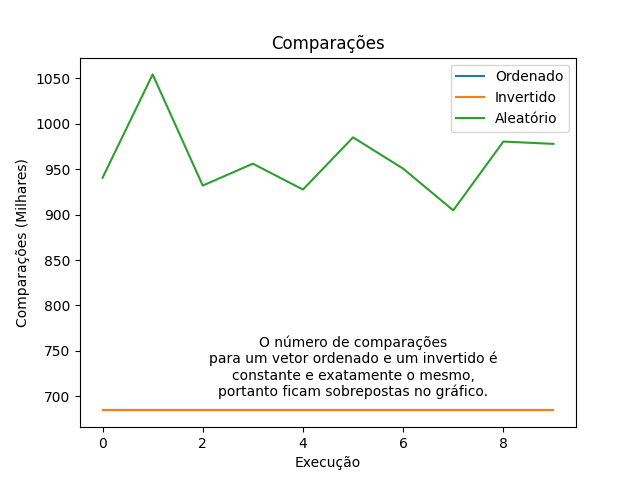
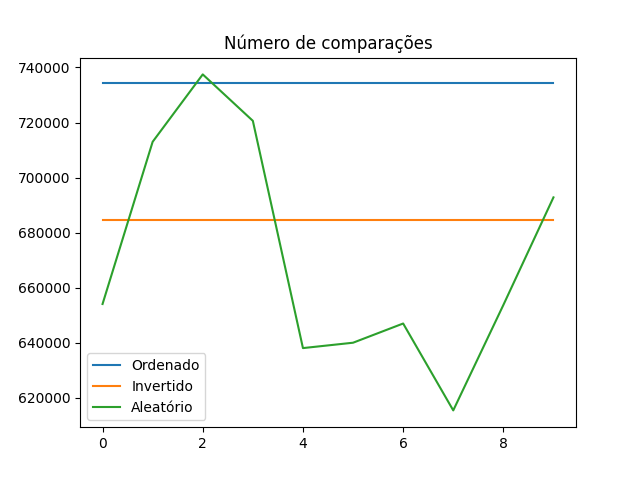
finalizado

diff --git a/quicksort.cpp b/quicksort.cpp
@@ -72,14 +72,13 @@ int quantTrocas = 0;
 // Função que ordena um vetor com o algoritmo quick sort
 // Recebe como parâmetro o vetor que será ordenado
 // o índice do início e do fim da parte do vetor que será ordenada
-void quickSort(int vet[], int ini, int fim){
+int partition(int vet[], int ini, int fim){
 
     // Escolha de um pivô para fazer as comparações
     // A escolha do pivô como o elemento do meio é vantajosa
     // porque tende a evitar que o pivô seja o maior ou menor número do vetor
-    // int pivo = vet[ini + (fim-ini) / 2];
-    // int pivo = median3(vet, ini, fim);
-    int pivo =  ini + (fim - ini) / 2;
+    // minimizando a chance de cair no caso O(n²)
+    int pivo =  vet[ini + (fim - ini) / 2];
 
     // Variáveis i e j para percorrer o vetor
     // i começa no primeiro elemento da parte do vetor a ser ordenada
@@ -94,50 +93,40 @@ void quickSort(int vet[], int ini, int fim){
     while (true){
 
         // Loop para encontrar um elemento que seja
-        // maior do que o pivô e que esteja antes do pivô
+        // maior do que o pivô
         // i percorre o vetor do início em direção ao fim
-        // i não pode ultrapassar o índice do fim
         while (vet[i] < pivo){
             quantComparacoes++;  // Adiciona mais uma comparação à contagem
             i++;  // Avança para o próximo número à direita
         }
 
-        if (i >= fim){
-            break;
-        }
-
         // Loop para encontrar um elemento que seja
-        // menor do que o pivô e que esteja depois do pivô
+        // menor do que o pivô
         // j percorre o vetor do fim em direção ao início
-        // j não pode ser menor do que o índice do início
         while (vet[j] > pivo){
             quantComparacoes++;  // Adiciona mais uma comparação à contagem
             j--;  // Avança para o próximo número à esquerda
-        }
-
-        if (j <= ini){
-            break;
         }
 
         // Neste ponto, vet[i] é um número maior do que o pivô
         // e vet[j] um número menor do que o pivô
         // O loop deve ser interrompido caso i seja maior ou igual a j
 
-
         // Caso i seja maior ou igual a j, então todo o vetor já foi percorrido
         if (i >= j){
-            break;
-        }
+			break;
+		}
 
         // Se o código chegou aqui, então i e j ainda não se cruzaram
         // vet[i] é um número maior do que o pivô e que está à esquerda dele
-        // vet[ij] é um número menor do que o pivô e que está à direita dele
+        // vet[j] é um número menor do que o pivô e que está à direita dele
         // Os valores de vet[i] e vet[j] devem ser trocados
-        quantTrocas++;  // Adiciona mais uma troca à contagem
         int aux = vet[i];  // Uso de uma variável auxiliar para fazer a troca
         vet[i] = vet[j];
         vet[j] = aux;
-
+        quantTrocas++;  // Adiciona mais uma troca à contagem
+        i++;
+        j--;
     }
 
     // Neste ponto, todos os números menores do que o pivô estão à sua esquerda
@@ -145,22 +134,30 @@ void quickSort(int vet[], int ini, int fim){
 
     // O algoritmo então é chamado recursivamente para ordenar a parte à direita e à esquerda da partição
     // A partição pode ser tanto i quanto j, pois tem o mesmo valor
-    // A parte à esquerda é do início até i (incluindo i)
-    // A parte à direita é de i+1 até o fim
+    // A parte à esquerda é do início até a partição (inclusa)
+    // A parte à direita é de partição+1 até o fim
 
-    // Ordena a parte à esquerda da partição se i não for o início
-    // Se i for o início, então o número já está no seu devido lugar
-    // e não é necessário chamar a função novamente
-    if (i > ini){
-    quickSort(vet, ini, i);
+    // Retornar a partição
+    return i;
+}
+
+
+void quickSort(int vet[], int ini, int fim){
+
+    // Condição de para é se início for igual ou menor ao fim,
+    // o que significa que essa parte do vetor já está ordenada
+    if (ini < fim){
+
+        // Pega a partição
+        int p = partition(vet, ini, fim);
+
+        // Ordena a parte à esquerda da partição, de início até a partição (inclusa)
+        quickSort(vet, ini, p);
+
+        // Ordena a parte à direita da partição, da partição+1 até fim
+        quickSort(vet, p+1, fim);
     }
 
-    // Aqui será organizada a parte direita, começando por i+1
-    // Se i+1 for igual ao fim, o número já está no seu devido lugar
-    // e não é necessário chamar a função novamente
-    if (i+1 < fim){
-        quickSort(vet, i+1, fim);
-    }
 }
 
 
@@ -170,12 +167,12 @@ int main(){
     int n = 50000;
     int vet[n];
     gera_vetor_aleatorio(vet, n);
-    // gera_vetor_ordenado_ASC(vet, n);
-    // gera_vetor_ordenado_DESC(vet, n);
-    // imprime_vetor(vet,n);
+//     gera_vetor_ordenado_ASC(vet, n);
+//     gera_vetor_ordenado_DESC(vet, n);
+//     imprime_vetor(vet,n);
 
     // Tempo inicial da execução
-    float t = clock();
+    clock_t t = clock();
 
     // Ordenar vetor
     // Do índice 0 até o último para ordenar todo o vetor
@@ -185,10 +182,10 @@ int main(){
     t = clock() - t;
 
     // Exibir tempo de execução, número de comparações e de trocas
-    printf("Tempo de execução: %.3f ms\n", t/1000);  // Exibir em ms
+//    imprime_vetor(vet, n);
+    printf("Tempo de execucao: %li ms\n", t);  // Exibir em ms
     printf("Quantidade de Comparacoes: %d\n", quantComparacoes);
     printf("Quantidade de trocas: %d\n", quantTrocas);
-    // imprime_vetor(vet, n);
 
 
     return 0;
